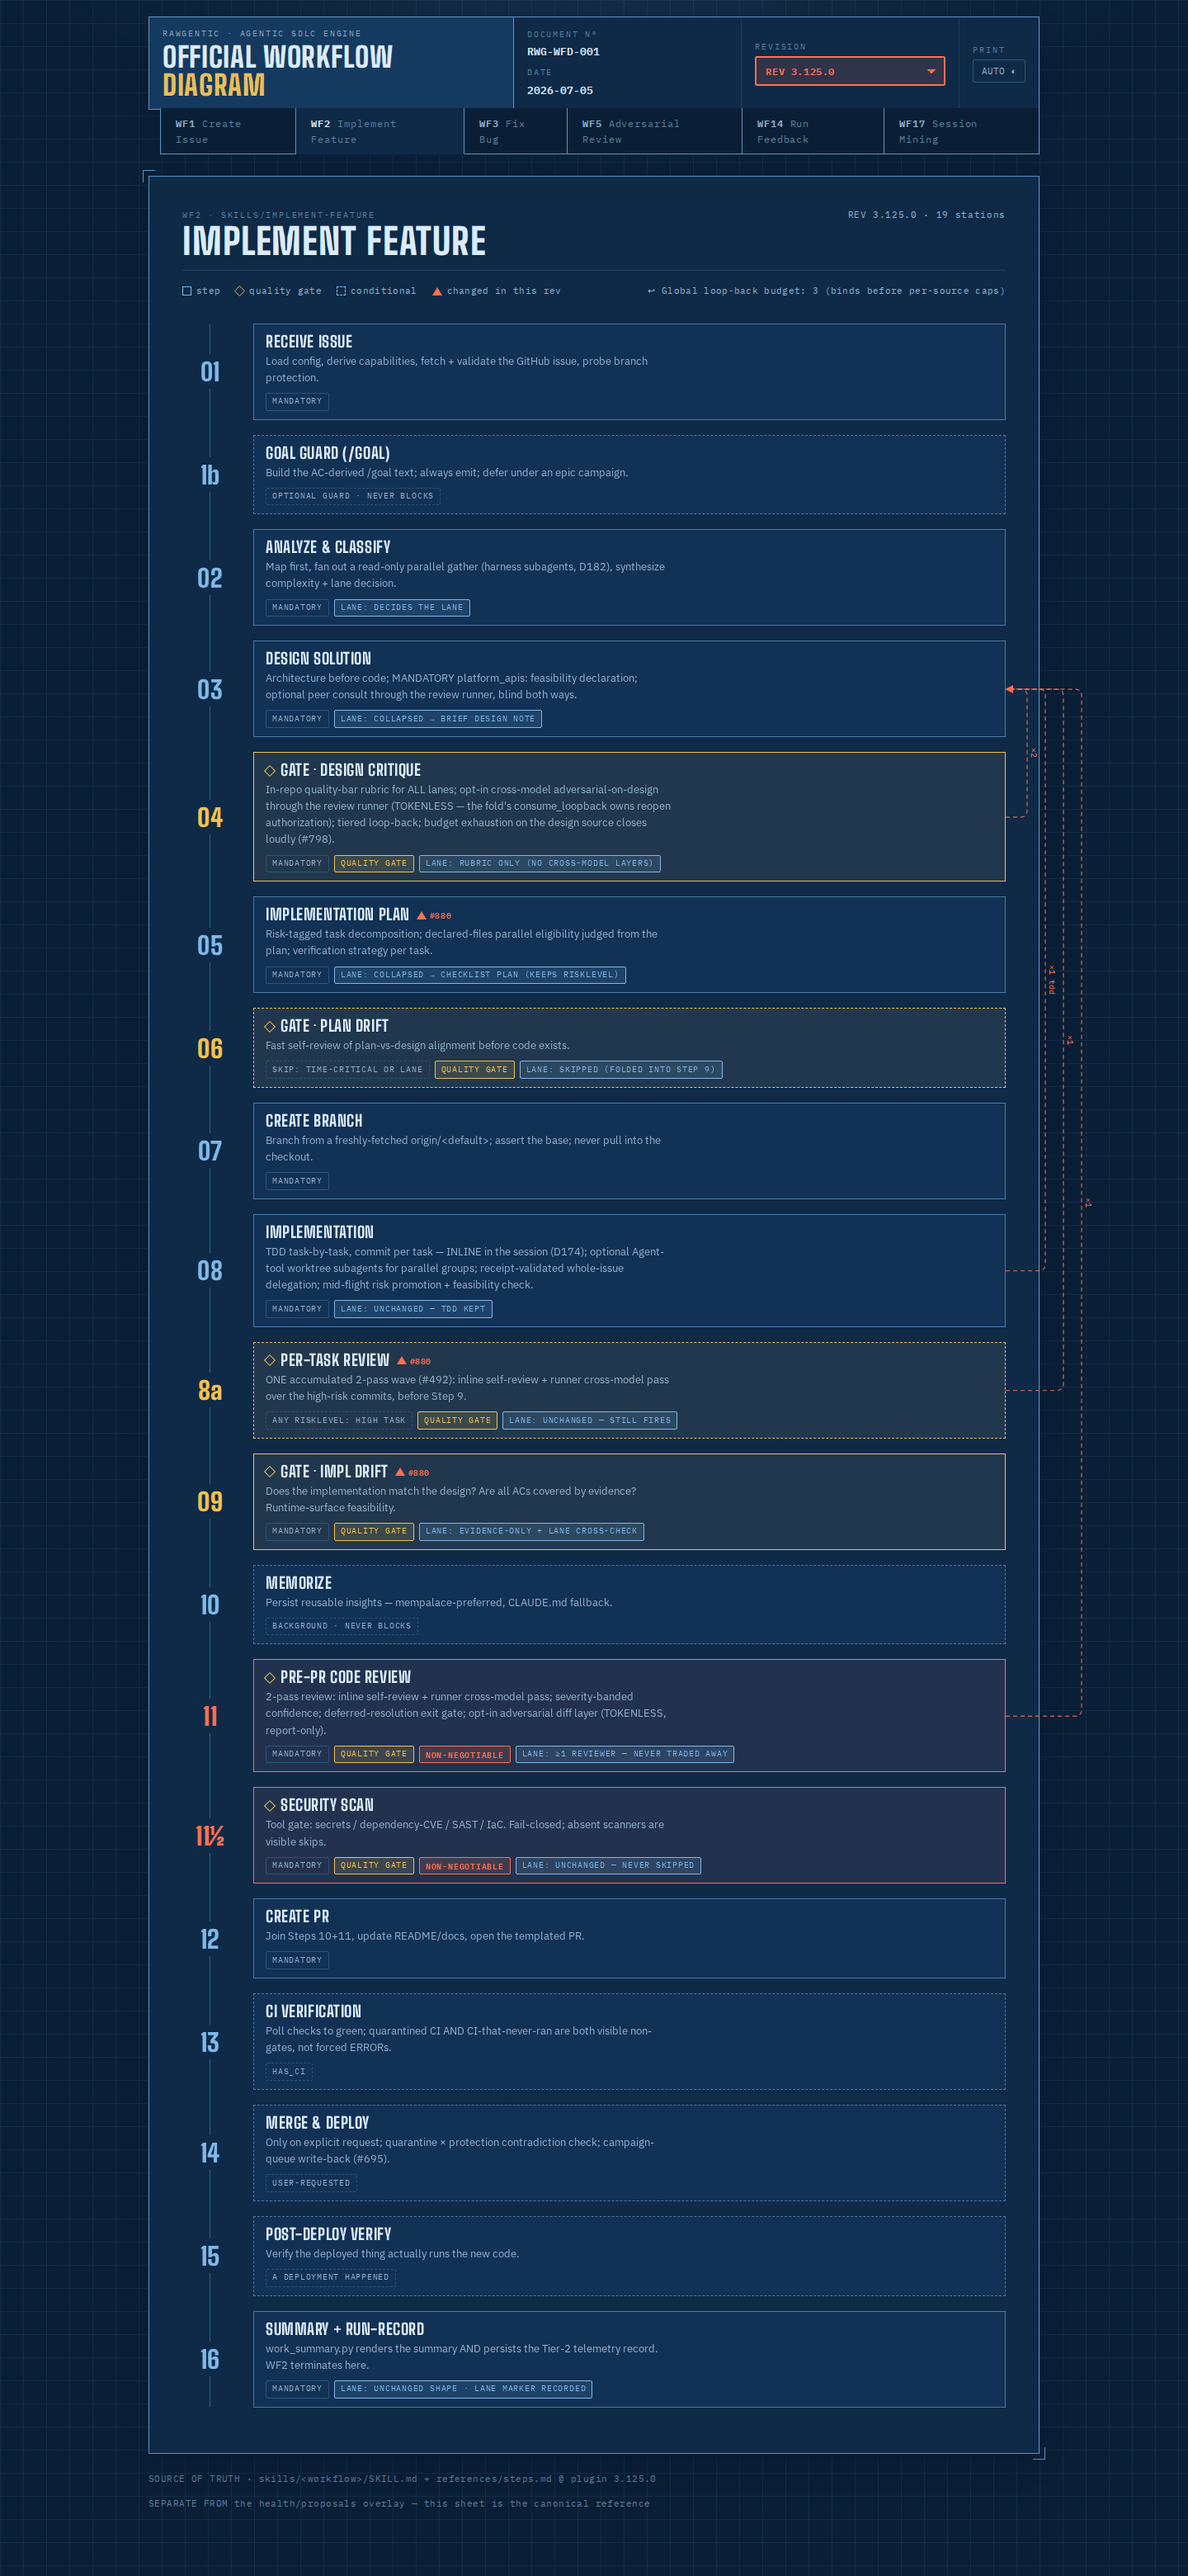
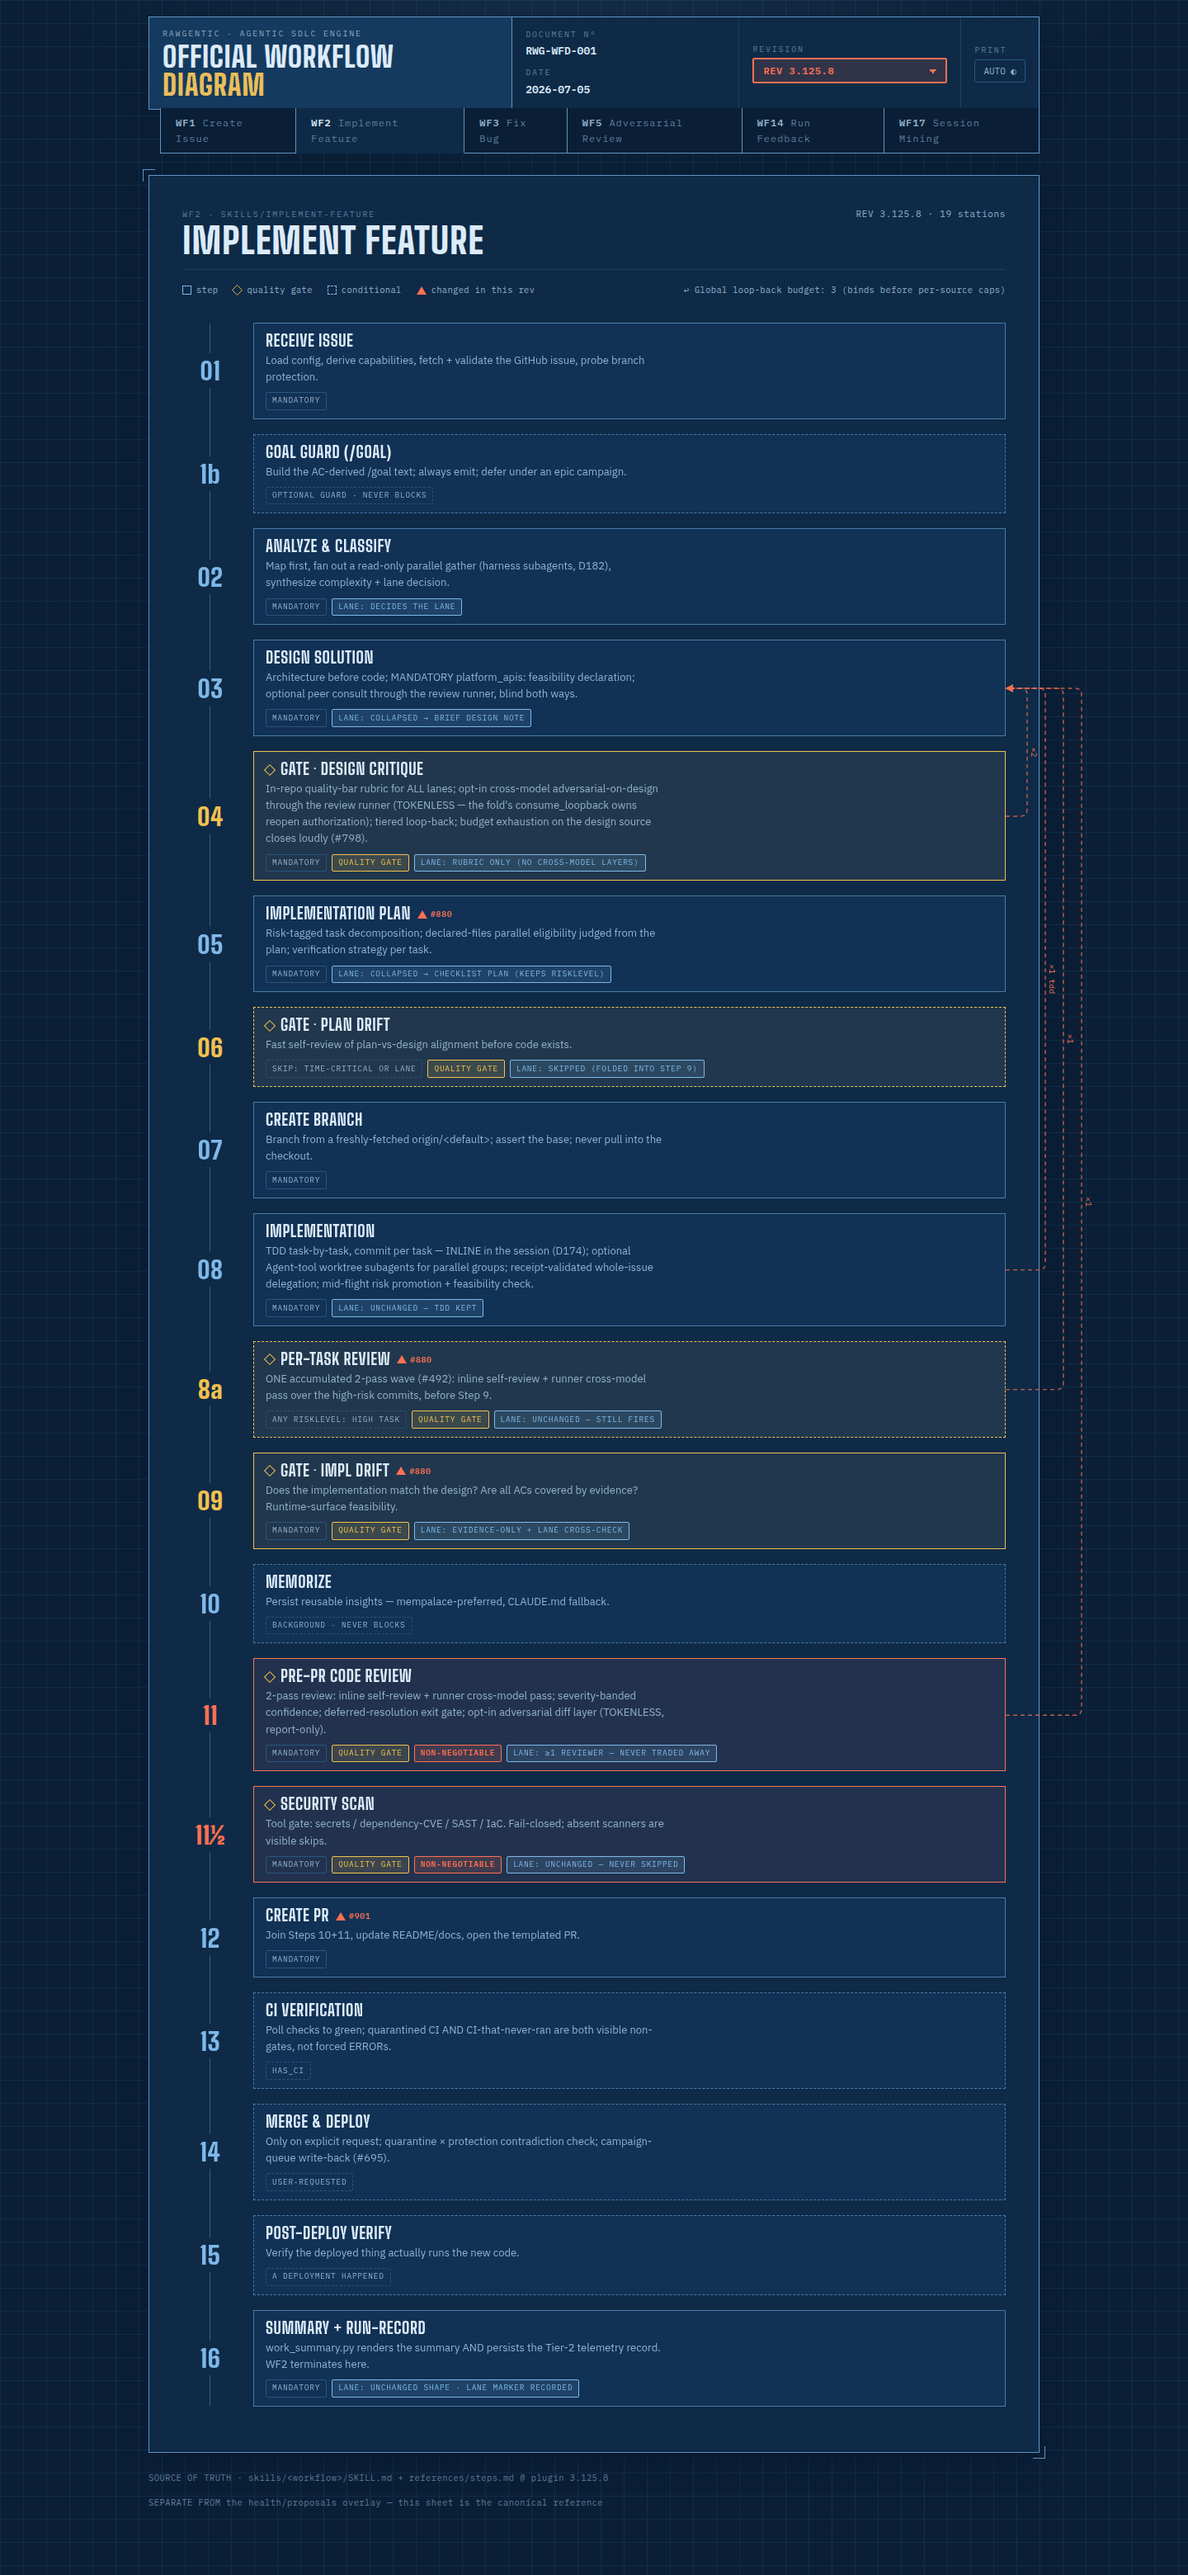
docs(diagram): WF2 REV 3.125.8 — station 12 gains the closing-keyword gate
Station 12 now documents the mandatory fail-closed closing-keyword gate that
runs on the drafted PR body before `gh pr create`, plus the fact row explaining
that omitting --closes means the PR closes nothing.

Decision recorded as D194. Taken from precedent rather than first principles: the
previous newest rev 3.125.0 (#880) marked station 9 for "the coverage gate reads
review_log.jsonl by explicit path and fails CLOSED" — a sub-step-level
behavioural change at exactly this granularity. WF3 takes no delta because its
diagram entry is skeletal:true, carrying one-line station summaries with no
sub-step detail for a sub-step addition to alter.

Mechanics per docs/workflow-diagram.md: 3.125.8 prepended to revs (newest-first,
revs[0] is both the default view and the rebuild source for steps:null entries,
so it keeps the full steps array); 3.125.0 becomes superseded:"3.125.8" with
steps:null plus an overrides entry carrying its own pre-change station 12;
changed station marked rev:{delta, refs:["#901"]}; provenance footer moved to
@ plugin 3.125.8. DOM-builder only — the file still contains zero innerHTML.

Snapshots regenerated over `python3 -m http.server` (headless blocks file:),
1440px viewport, fullPage in both themes: 1440x3120, matching the previous pair's
1440x3121, so the sheet is not clipped. Both eyeballed — 19 stations legible, the
red delta triangle and #901 on station 12, REV 3.125.8 selected, and 3.125.0
marked superseded in the revision picker.

Part of #901

diff --git a/docs/workflow-diagram.html b/docs/workflow-diagram.html
@@ -246,7 +246,7 @@ dialog.modal .sheet{margin-top:0;border:0;box-shadow:none;animation:none}
   <main id="app"></main>
 
   <div class="prov">
-    <span>SOURCE OF TRUTH · skills/&lt;workflow&gt;/SKILL.md + references/steps.md @ plugin 3.125.0</span>
+    <span>SOURCE OF TRUTH · skills/&lt;workflow&gt;/SKILL.md + references/steps.md @ plugin 3.125.8</span>
     <span>SEPARATE FROM the health/proposals overlay — this sheet is the canonical reference</span>
   </div>
 </div>
@@ -259,7 +259,7 @@ const DATA = {
   workflows: {
   wf2: {
     code:"WF2", name:"Implement Feature", skill:"skills/implement-feature",
-    revs:["3.125.0","3.123.0","3.114.0","3.112.0","3.111.0","3.93.0","3.78.0","3.75.0","3.40.0","3.39.0","3.18.0","3.17.0","3.16.0","3.13.0","3.12.0","3.10.0","3.1.0"],
+    revs:["3.125.8","3.125.0","3.123.0","3.114.0","3.112.0","3.111.0","3.93.0","3.78.0","3.75.0","3.40.0","3.39.0","3.18.0","3.17.0","3.16.0","3.13.0","3.12.0","3.10.0","3.1.0"],
     loopbacks:[
       {from:"4",to:"3",label:"×2"},
       {from:"8",to:"3",label:"×1 tdd"},
@@ -268,7 +268,7 @@ const DATA = {
     ],
     loopnote:"Global loop-back budget: 3 (binds before per-source caps)",
     versions: {
-      "3.125.0": { superseded:false, steps:[
+      "3.125.8": { superseded:false, steps:[
         {id:"1", num:"01", name:"Receive Issue", kind:"step", mand:true,
          sum:"Load config, derive capabilities, fetch + validate the GitHub issue, probe branch protection.",
          lane:"unchanged",
@@ -360,8 +360,9 @@ const DATA = {
          sum:"Join Steps 10+11, update README/docs, open the templated PR.",
          lane:"unchanged",
          purpose:"The deliverable — no PR means no review trail. Docs are a mandatory decision, not an afterthought: decide explicitly whether anything user-facing changed, and say so in the PR body when nothing did. The body carries the full gate summary plus the branch-protection line from Step 1.",
-         sub:[["a","Join barrier: Steps 10 and 11 both complete"],["b","README + docs mandatory decision (the Changelog entry is the most common miss)"],["c","(opt-in) HTML design artifact created-or-updated BEFORE the PR — shared-doc or per-issue mode, rendered via the shared helper with real run telemetry"],["d","Final push + pre-PR test gate (full suite must be green)"],["e","Templated body: Summary · Design Decisions · Verification · Deferred verification (canonical heading) · Quality Gate Summary + protection line"]],
-         facts:[["PR gate","Step 11's own exit conditions — no unresolved Critical/High"],["Deferred section","one canonical heading, keyed by 3 gates"]]},
+         sub:[["a","Join barrier: Steps 10 and 11 both complete"],["b","README + docs mandatory decision (the Changelog entry is the most common miss)"],["c","(opt-in) HTML design artifact created-or-updated BEFORE the PR — shared-doc or per-issue mode, rendered via the shared helper with real run telemetry"],["d","Final push + pre-PR test gate (full suite must be green)"],["d2","Closing-keyword gate: plan_lib check-pr-refs on the DRAFTED body, before gh pr create — fail-closed (#901)"],["e","Templated body: Summary · Design Decisions · Verification · Deferred verification (canonical heading) · Quality Gate Summary + protection line"]],
+         facts:[["PR gate","Step 11's own exit conditions — no unresolved Critical/High"],["Deferred section","one canonical heading, keyed by 3 gates"],["Closing-keyword gate","rc 1 flags a closing keyword next to an issue this PR does not declare it closes; omitting --closes means it closes nothing"]],
+         rev:{delta:"Step 12 now runs a mandatory fail-closed closing-keyword gate (plan_lib check-pr-refs) on the DRAFTED PR body BEFORE gh pr create (#901). GitHub's parser ignores negation, so a body reading 'this PR does not close #N' shut #N on merge twice for real (#568 via #573, #874 via #898). Omitting --closes means the PR closes nothing, so every closing reference flags; an empty body file is rc 2, never a pass.",refs:["#901"]}},
         {id:"13", num:"13", name:"CI Verification", kind:"step", mand:false, cond:"has_ci",
          sum:"Poll checks to green; quarantined CI AND CI-that-never-ran are both visible non-gates, not forced ERRORs.",
          lane:"unchanged",
@@ -387,6 +388,14 @@ const DATA = {
          sub:[["a","Assemble the run-record per references/run-record.md — every documented key PRESENT, counts sane; session-unique record path (#511)"],["b","Usage capture from the session transcript — fail-closed: a captured record can never persist with null tokens"],["c","Lane marker (small-standard vs full) keeps lane runs measurable against full runs"],["d","architecture recorded \"inline\"; the legacy dispatches[] key is OMITTED (the retreat removed dispatch machinery — the key stays valid on historical records only)"],["e","work_summary.py renders the summary (its stdout IS the summary) + appends to docs/measurements/run_records.jsonl; rc 1 = rendered but not persisted — a telemetry gap to fix or record, never ignore"],["f","Campaign-queue reconciliation (#695, idempotent) + completion-gate checklist re-verified; opt-in embedded WF14 self-assessment"]],
          facts:[["Store","docs/measurements/run_records.jsonl"],["rc","0 persisted · 1 gap · 2 usage error"],["Architecture","inline · legacy values valid on historical records only"]]}
       ]},
+      "3.125.0": { superseded:"3.125.8", steps:null,
+        overrides: {
+          "12": {sum:"Join Steps 10+11, update README/docs, open the templated PR.",
+                 purpose:"The deliverable — no PR means no review trail. Docs are a mandatory decision, not an afterthought: decide explicitly whether anything user-facing changed, and say so in the PR body when nothing did. The body carries the full gate summary plus the branch-protection line from Step 1.",
+                 sub:[["a","Join barrier: Steps 10 and 11 both complete"],["b","README + docs mandatory decision (the Changelog entry is the most common miss)"],["c","(opt-in) HTML design artifact created-or-updated BEFORE the PR — shared-doc or per-issue mode, rendered via the shared helper with real run telemetry"],["d","Final push + pre-PR test gate (full suite must be green)"],["e","Templated body: Summary · Design Decisions · Verification · Deferred verification (canonical heading) · Quality Gate Summary + protection line"]],
+                 facts:[["PR gate","Step 11's own exit conditions — no unresolved Critical/High"],["Deferred section","one canonical heading, keyed by 3 gates"]],
+                 lane:"unchanged"}
+        }},
       "3.123.0": { superseded:"3.125.0", steps:[
         {id:"1", num:"01", name:"Receive Issue", kind:"step", mand:true,
          sum:"Load config, derive capabilities, fetch + validate the GitHub issue, probe branch protection.",
